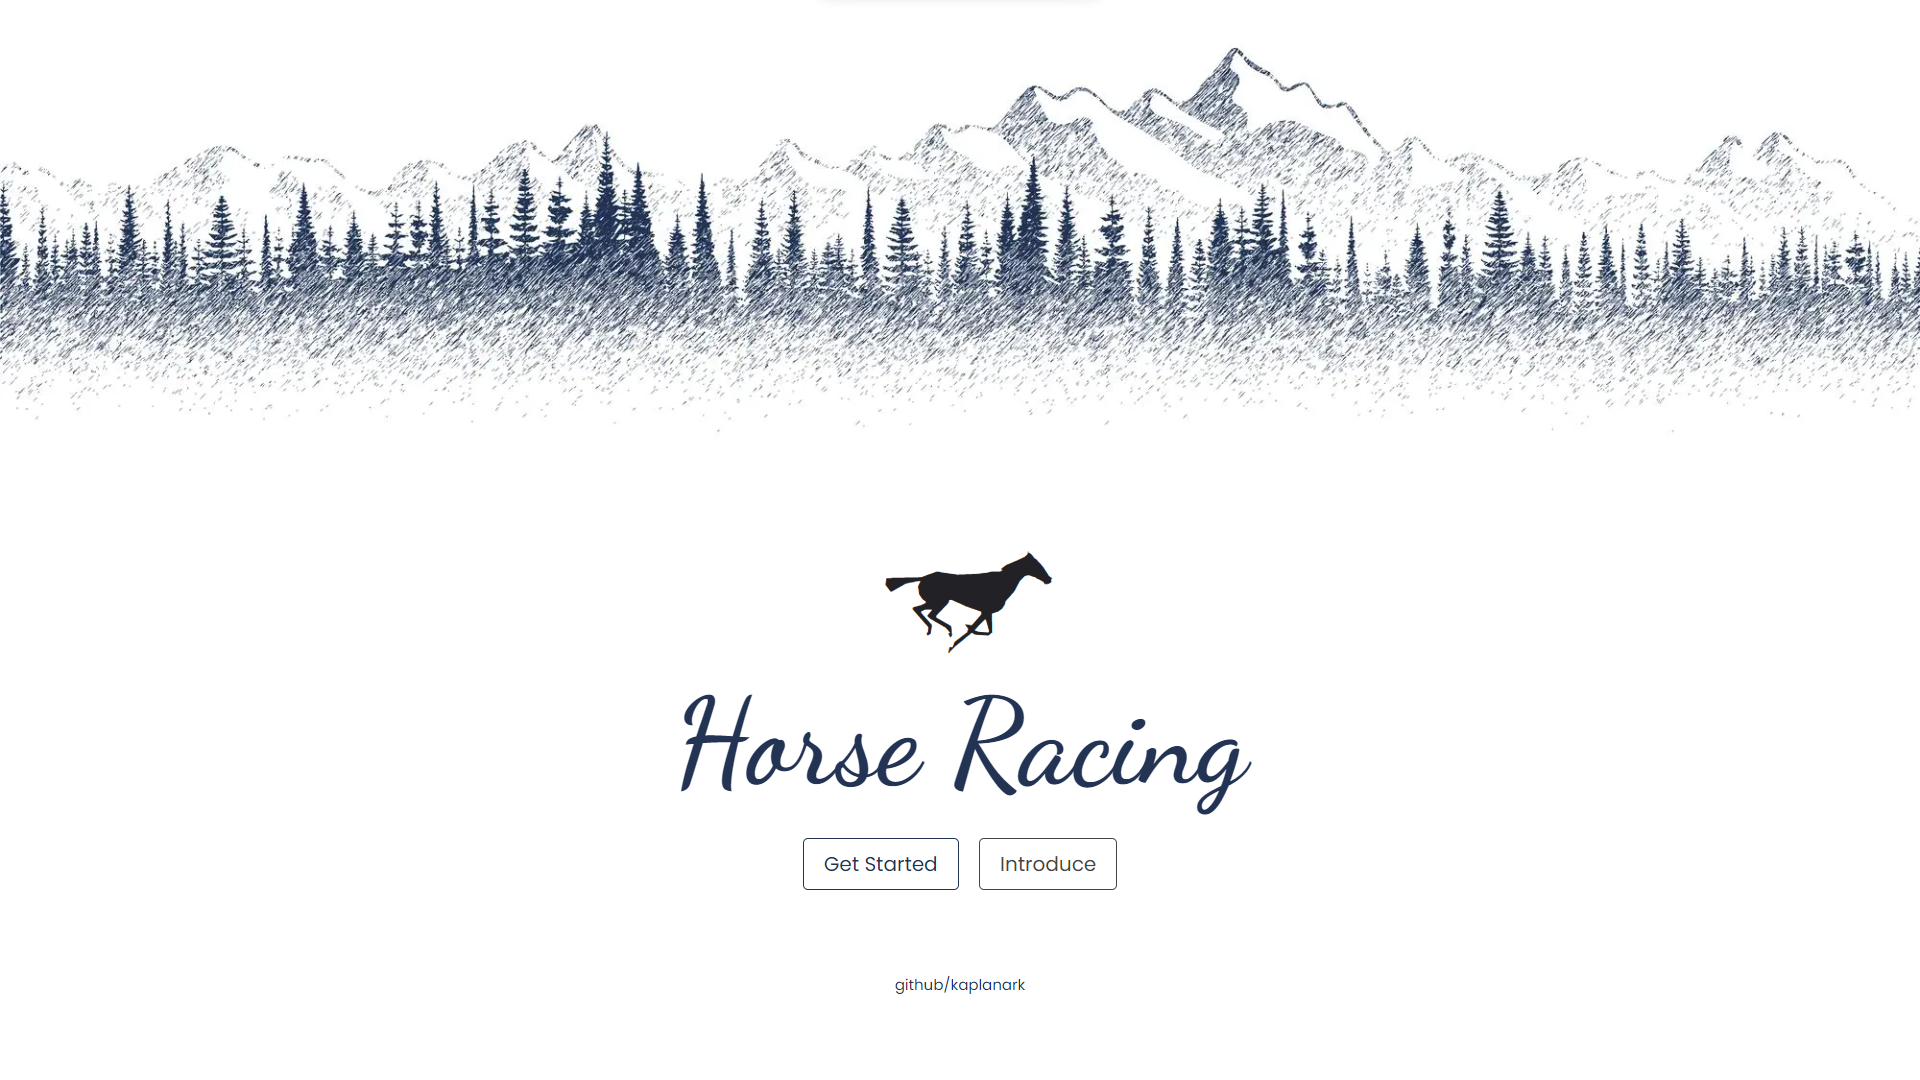
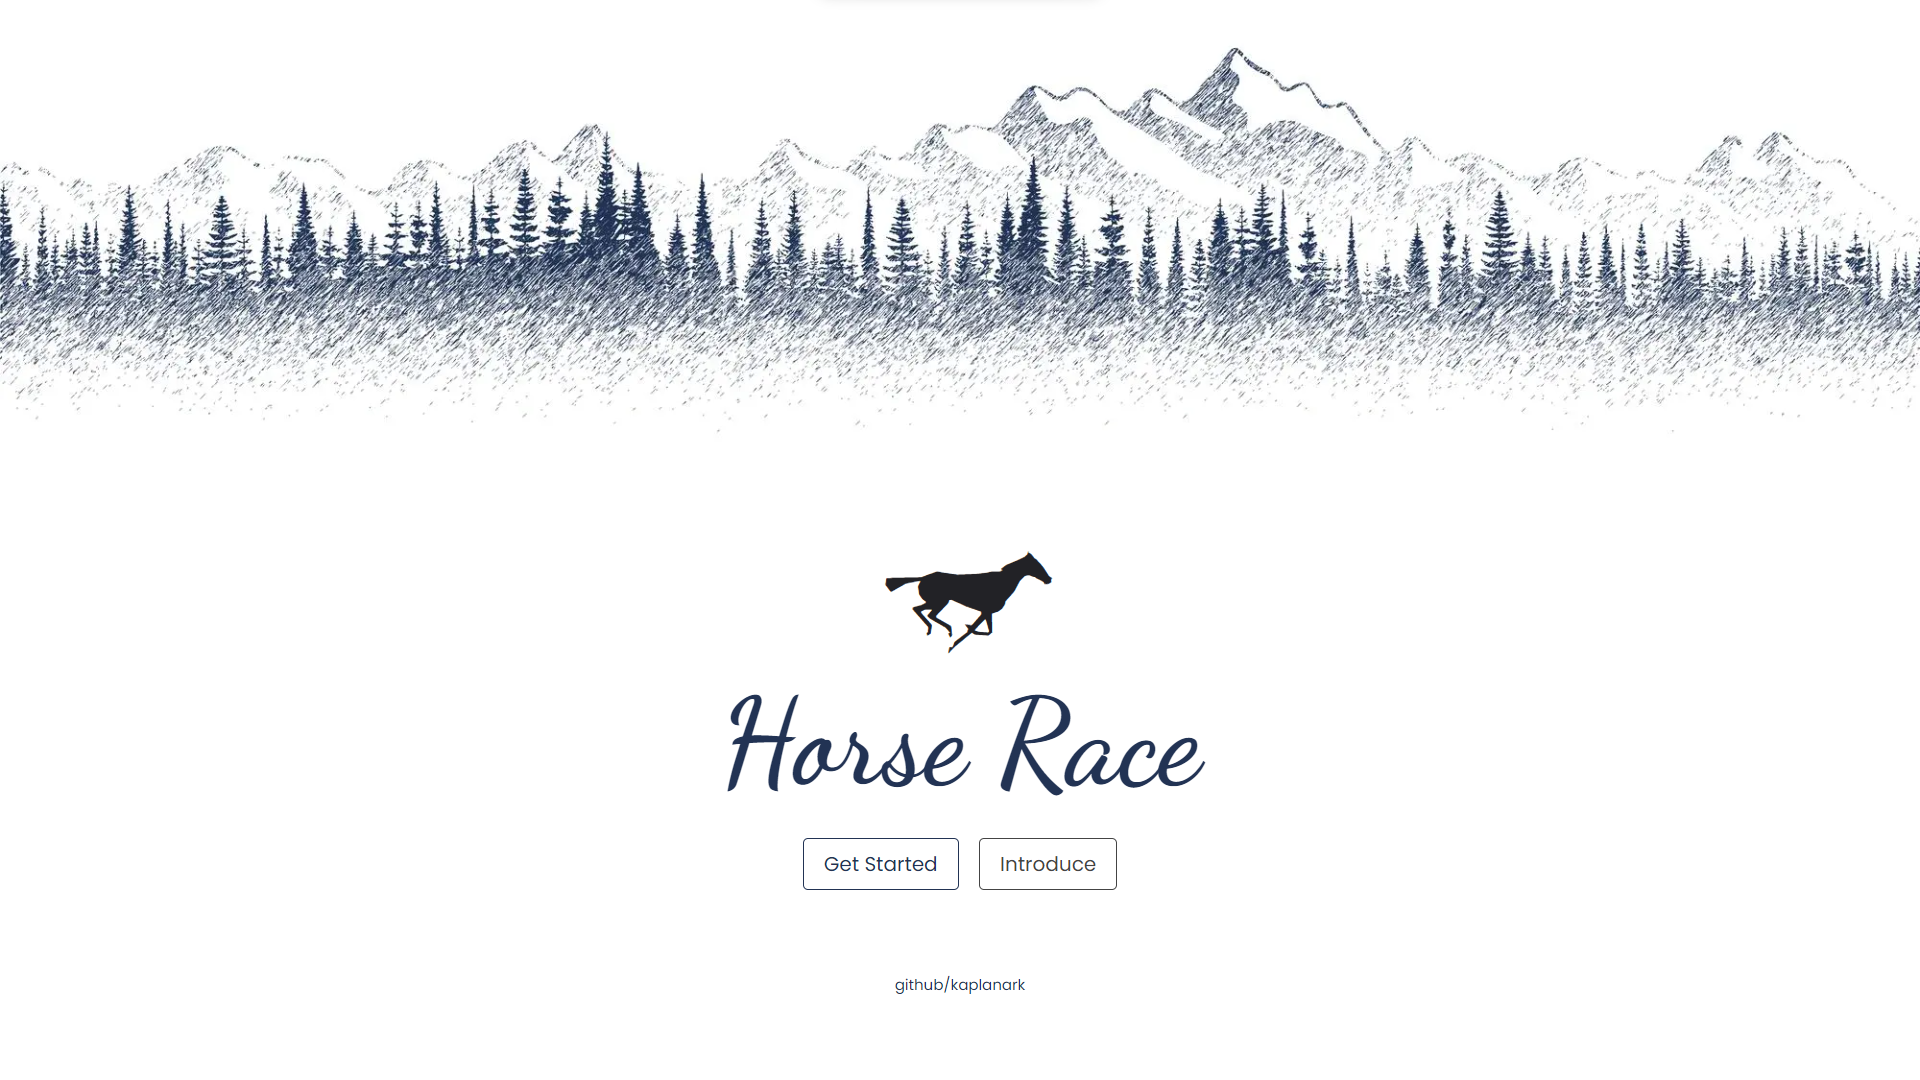
updated welcome view sitename

Changed region(s): [[0.3438, 0.6417, 0.6562, 0.7639]]

diff --git a/src/views/Welcome.vue b/src/views/Welcome.vue
@@ -22,7 +22,7 @@ const clickHandler = (route) => {
 	<div class="welcome">
 		<div class="welcome__content">
 			<Loader :status="isLoaderStatus"></Loader>
-			<h1>Horse Racing</h1>
+			<h1>Horse Race</h1>
 			<div class="btn-group">
 				<Button name="Get Started" variant="primary" @click="clickHandler('/race-track')"></Button>
 				<Button name="Introduce" variant="secondary" @click="clickHandler('/introduce')"></Button>
